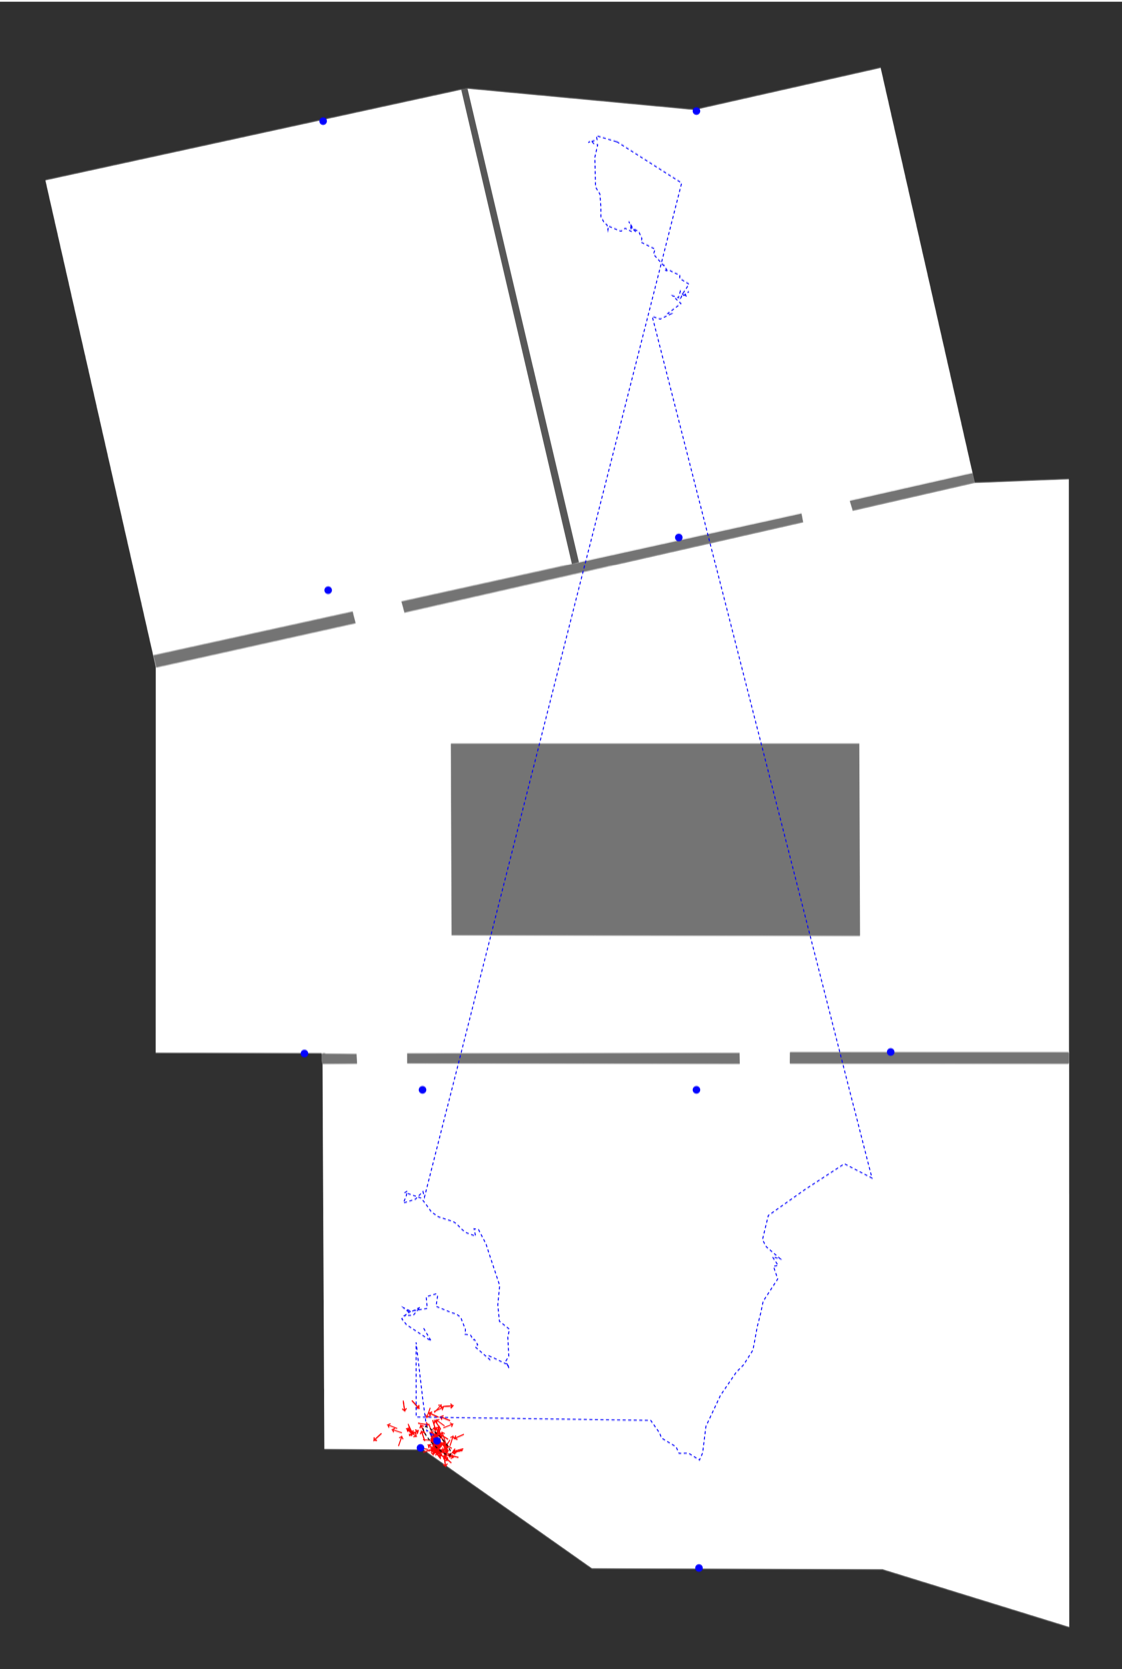
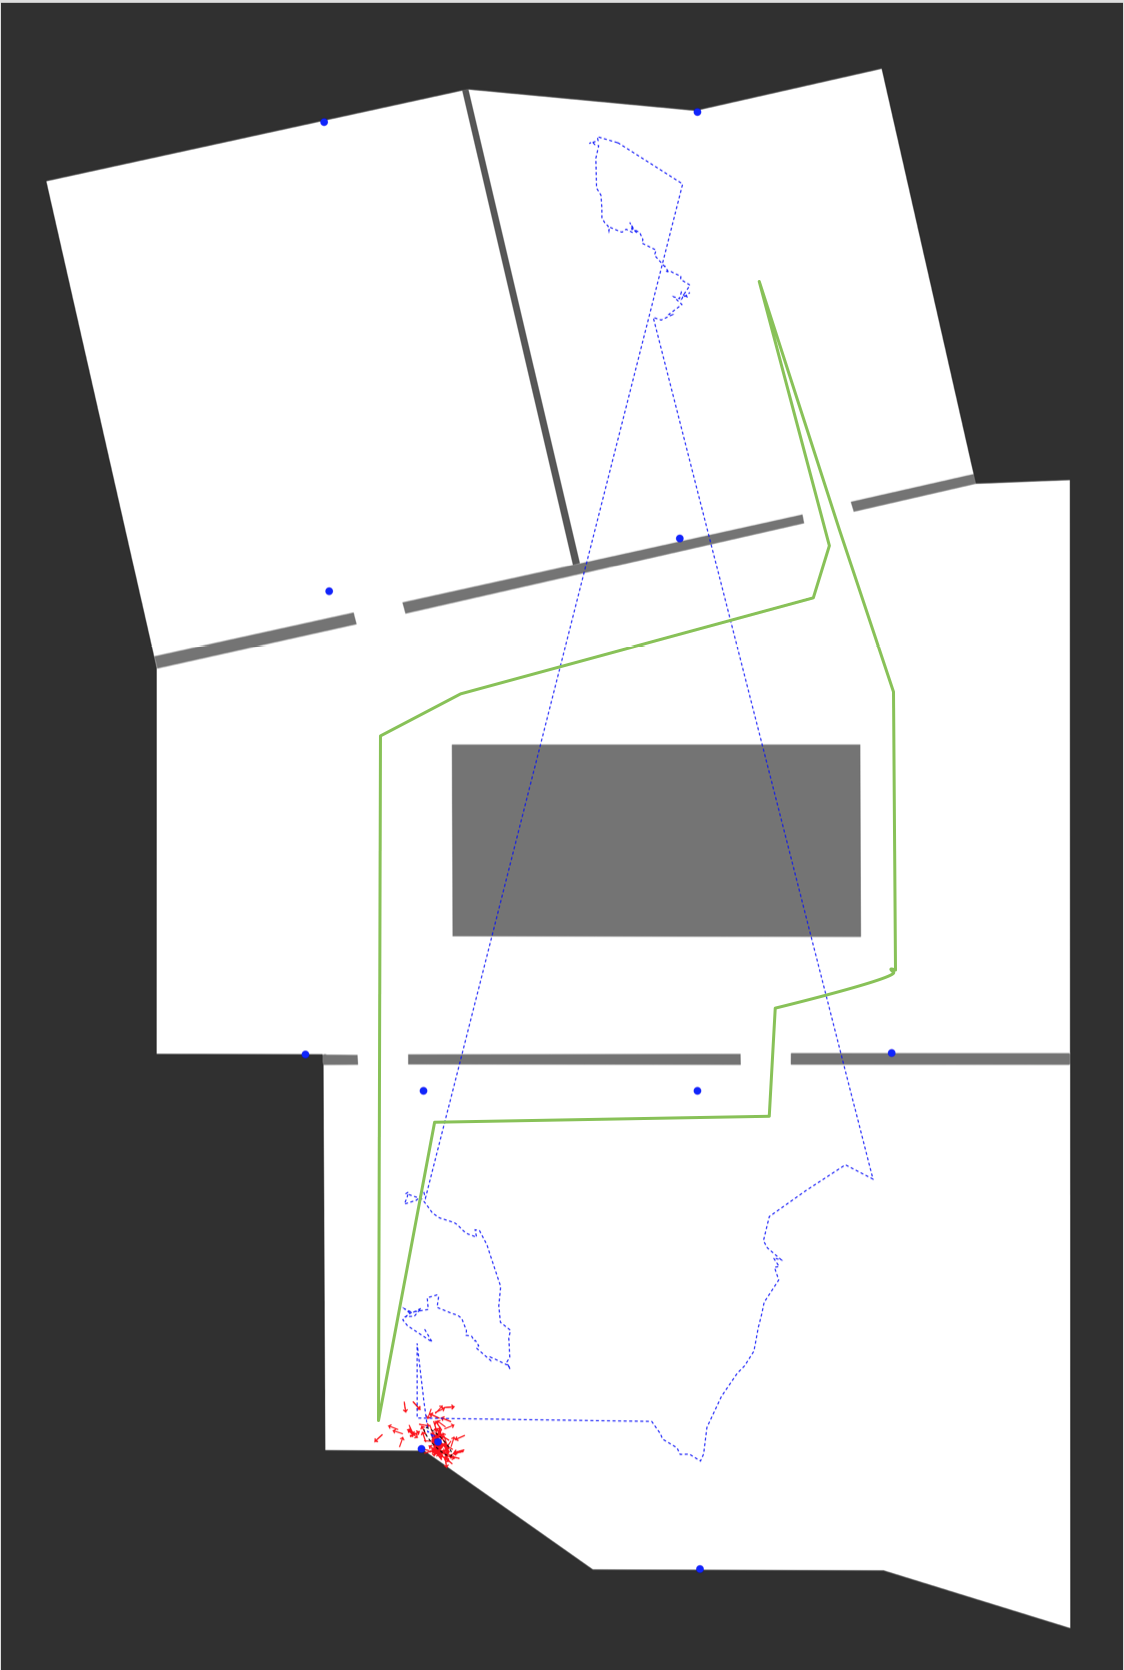
Corrections.

diff --git a/chapters/40_algorithm.tex b/chapters/40_algorithm.tex
@@ -161,7 +161,7 @@ The \acl{PF} is the solution's heart, which is responsible for the position esti
 
 \begin{figure}
 \includegraphics[height=0.7\textwidth]{figures/algo_particle_generation}
-\caption{Depicts the initial posteriori belief, resp.\ the initial particle set. Particles are shown as red arrows, the beacons as blue filled circles. The large black circle is the $1\sigma$-ellipse.}
+\caption{Depicts the initial posterior belief, resp.\ the initial particle set. Particles are shown as red arrows, the beacons as blue filled circles. The large black circle is the $1\sigma$-ellipse.}
 \label{fig:pf_initialDist}
 \end{figure}
 
@@ -179,7 +179,7 @@ The \texttt{integrateMotion} function, shown in listing~\ref{lst:algorithmIntegr
 
 
 \subsection{Filtering}
-The \texttt{filter} function is another helper function, which is responsible for the \emph{importance factoring} and the \emph{resampling}, depicted in listing~\ref{lst:algorithmSimpleFilter}. It gets passed the particle set $\chi_{t-1}$, the measurements $z_t$ and the \texttt{map}. Then it determines the importance factor of each particle, as explained in section~\ref{sec:algo_measurement_model}. Afterwards, the resampling takes place, to transform the old distribution into the new posteriori distribution, as described in section~\ref{sec:fund_pf}. The solution uses \emph{roulette wheel resampling}, which is a common resampling method based on \emph{independent sampling}, proposed by \citet[p. 108--111]{thrun:prob_robo}.
+The \texttt{filter} function is another helper function, which is responsible for the \emph{importance factoring} and the \emph{resampling}, depicted in listing~\ref{lst:algorithmSimpleFilter}. It gets passed the particle set $\chi_{t-1}$, the measurements $z_t$ and the \texttt{map}. Then it determines the importance factor of each particle, as explained in section~\ref{sec:algo_measurement_model}. Afterwards, the resampling takes place, to transform the old distribution into the new posterior distribution, as described in section~\ref{sec:fund_pf}. The solution uses \emph{roulette wheel resampling}, which is a common resampling method based on \emph{independent sampling}, proposed by \citet[p. 108--111]{thrun:prob_robo}.
 
 The shown implementation is the basic implementation which does not solve the kidnapping problem. To better understand the implementation, the \acs{PF}'s complexity was reduced, by first showing a simplified filter function, which neglects the recovery. Later in the chapter, the shown \texttt{filter} function is being enhanced, to explain the implemented recovery feature.
 
@@ -250,35 +250,35 @@ Furthermore, tests showed, that by additionally integrating a small Gaussian dis
 
 
 \subsection{Recovery / Kidnapping Problem}\label{sec:algo_recovery}
-Recovery has two purposes in our application. Firstly, it can happen, that all particles are moving out of bounds, and thus, are being filtered out. Secondly, the particles are on a totally wrong position, which can happen if the user walked to soft, and thus, the pedometer could not recognize the users steps. It can also happen that the orientation does not fit the actual one; for instance, the user's phone points not straight forward during the walk.
+The implemented recovery feature has two purposes. Firstly, it can happen, that all particles are moving out of bounds, and thus, are being filtered out. Secondly, if the particles are on a totally wrong position, which can happen if the user walked to soft, and thus the pedometer could not recognize the user's steps. It can also happen that the orientation does not fit the actual one; for instance, the user's phone points not straight forward during the walk.
 
-To determine both situations, we enhanced our \texttt{filter} function shown in listing~\ref{lst:algorithmSimpleFilter}. The enhanced version is shown in listing~\ref{lst:algorithmFilter}. During the resampling, the new particle set's $\texttt{weightSum} = \sum_{m = 0}^{M-1} w^{[m]}_t$, which is the sum of all drawn particles, during the resampling, is being calculated.
+To determine both situations, the before introduced \texttt{filter} function, shown in listing~\ref{lst:algorithmSimpleFilter}, was enhanced to support recovery. The enhanced version is shown in listing~\ref{lst:algorithmFilter}. During the resampling, the new particle set's \texttt{weightSum}~=~$\sum_{m = 0}^{M-1} w^{[m]}_t$, which is the sum of all drawn particles, during the resampling, is calculated.
 
-If the $\texttt{weightSum} == 0$, $\chi_t$ is empty, thus all particles are moved out of bounds or their location is already occupied, and thus, they are being ignored. Consequently, a new random particle set is being generated. The particles are being distributed as described in section~\ref{sec:algo_initial}, in other words, the position estimation is restarted.
+If the $\texttt{weightSum} == 0$, $\chi_t$ is empty, thus all particles are moved out of bounds or their location is already occupied, and thus are being ignored. Consequently, a new random particle set is being generated. The particles are distributed as described in section~\ref{sec:algo_initial}, i.e\ the position estimation is restarted.
 
-If the $\texttt{weightSum} > 0$, it gets normalized by the particle sets size. Then, it is being stored in an array \texttt{particleSums}, which contains the latest three weightSums (line 24). When the \texttt{filter} function is being called the next time, it first checks if the array already contains three weight sums, and if true, the average of the three weight sums is being calculated (line 8). If the average drops below a certain threshold (1.0), we know, that the posteriori's distribution does not match the user's true position, resp.\ it is totally wrong. To recover from this state we add additional 20\% random particles. The random particles are also being distributed as described in section~\ref{sec:algo_initial}. Due to the fact, that the particles are added before the importance factoring and resampling, the added particles should help to recover from the state, by getting higher importance factors, and thus are being drawn multiple times.
+If the $\texttt{weightSum} > 0$, it gets normalized by the particle sets size. Then, it is stored in the \texttt{particleSums} array, which contains the latest three weightSums (line 24). When the \texttt{filter} function is called the next time, it first checks if the array already contains three weight sums, and if true, the average of the three weight sums is calculated (line 8). If the average drops below a certain threshold (set to 1.0), it is very likely, that the posterior's distribution does not match the user's true position, i.e.\ it is totally wrong. To recover from this state 20\% additional random particles where added to the particle set. The random particles are distributed as described in section~\ref{sec:algo_initial}. Due to the fact, that the particles are being added before the importance factoring and resampling, the added particles help to recover from the state, by getting higher importance factors, and thus they are drawn with a high probability.
 
-We tested different random particle counts; 20\% seems to bring the best result. Adding to less particles does not really help to recover, but adding to much results in a heavily jumping position estimation. The reason for taking the average over the last three weight sums is, that it sometimes can happen, that the weight sum drastically drops during one filter call. This happens for instance, if the measurements to the beacons where heavily influenced, and thus, totally wrong.
+Test of different random particle counts showed, that 20\% seems to bring the best result. Adding to less particles does not really help to recover, but adding to much results in a heavily jumping position estimation. The reason for taking the average over the last three weight sums is, that sometimes the weight sum drastically drops during one filter call. This happens for instance, if the measurements to the beacons where heavily influenced by an obstacle, and thus are totally wrong.
 
-Figure~\ref{fig:algo_recovery} illustrates the recovery. The shown weight sums correspond to the two screenshots. During the experiment, we simulated the kidnapping problem, by walking very smooth from the lower lecture hall through the buildings foyer, by passing the large obstacle at the left side, into the upper right lecture hall. After being their stationary for a few seconds, we returned, by passing the obstacle on the other side. The walk's start and end are at the position, where the particles are being concentrated in figure~\ref{fig:algo_recovery_withRecovery}. During the walk, the iPhone's pedometer was not able to recognize any step. Both experiments, the one with recovery (fig.~\ref{fig:algo_recovery_withRecovery}) and the one without recovery (fig.~\ref{fig:algo_recovery_withoutRecovery}), are being simulated by using the exact same recorded data, as input.
+Figure~\ref{fig:algo_recovery} illustrates the recovery. The shown weight sums correspond to the two screenshots. During the experiment, the kidnapping problem was simulated by walking very smooth, approximately on the green path, from the lower lecture hall through the building's foyer, by passing the large obstacle at the left side, into the upper right lecture hall. After being their stationary for a few seconds, we returned, by passing the obstacle on the other side. During the walk, the iPhone's pedometer was not able to recognize any step. Both experiments, the one with recovery (fig.~\ref{fig:algo_recovery_withRecovery}) and the one without recovery (fig.~\ref{fig:algo_recovery_withoutRecovery}), are simulated by using the exact same recorded data, as input.
 
-We empirically found out, that a threshold of 1.0 fits best. After $\approx$~90s the recovery was being executed the first time. During the long break from 60s~--~90s we walked through the foyer, where no beacons with an estimated distance less than 5m, where ranged. After, receiving measurements again, the average particle weight sum dropped below the threshold, and recovery took place. Thus, the particles jumped from the lower to the upper lecture hall. The same happened at $\approx$~155s on the way back. The third recovery was being executed at $\approx$~184s, which caused a small jump to the end position.
+By testing different thresholds in different scenarios, a threshold of 1.0 seems fit best. In this example recovery was being executed the first time after $\approx$~90s. During the long break from 60s~--~90s the test user walked through the foyer, where no beacons with an estimated distance of less than 5m where ranged. Thus the \texttt{filter} function was not executed. After receiving measurements again, the average particle weight sum dropped below the threshold, and recovery took place. Thus, the particles jumped from the lower to the upper lecture hall. The same happened at $\approx$~155s on the way back. The third recovery is executed at $\approx$~184s, which caused a small jump next to the end position.
 
-With disabled recovery, we can see that the algorithm is not possible to find the true location. After $\approx$~90s the weight sum drops to $\approx$~0, and stays there.
+Without recovery, shown in figure~\ref{fig:algo_recovery_withoutRecovery}, the algorithm is not able to approximate the true location. After $\approx$~90s the weight sum drops to $\approx$~0, and stays there.
 
 
 \input{listings/algorithmFilter}
 
 \begin{figure}
 	\input{figures/algorithmParticleFilter_Recovery}
-	\caption {Depicts the build in recovery, which adds additional 20\% particles if the average weight sum drops below a threshold of 1.0.}
+	\caption {Depicts an example with and without the solution's recovery feature.}
 	\label{fig:algo_recovery}
 \end{figure}
 
 \subsection{Location Estimation}\label{sec:algo_locEstimation}
-To be able to display a concrete location estimation instead of a particle cloud, the \acs{PF}'s posteriori belief, which is a multi-modal distribution, represented by the particle set $\chi_t$, needs to be converted into another distribution. As mentioned in chapter~\ref{chap:fundamentals}, uncertainties are typically modeled as gaussians. Consequently, it is applicable to transform the \acs{PF}'s posteriori into a two-dimensional gaussian $N(\mu, \Sigma)$, where the mean $\mu = (x, y)^T$ represents the concrete location, and the location's uncertainty is being expressed as the covariance matrix $\Sigma = \bigl(\begin{smallmatrix} \sigma_{x}^2&\sigma_{xy}\\ \sigma_{yx}&\sigma_{y}^2 \end{smallmatrix} \bigr)$.
+To be able to display a concrete location estimation instead of a particle cloud, the \acs{PF}'s posterior belief, which is a multi-modal distribution, represented by the particle set $\chi_t$, needs to be converted into another distribution. As mentioned in chapter~\ref{chap:fundamentals}, uncertainties are typically modeled as Gaussians. Consequently, it is applicable to transform the \acs{PF}'s posterior into a two-dimensional gaussian $N(\mu, \Sigma)$, where the mean $\mu = (x, y)^T$ represents the concrete location. The location's uncertainty is expressed as the covariance matrix $\Sigma = \bigl(\begin{smallmatrix} \sigma_{x}^2&\sigma_{xy}\\ \sigma_{yx}&\sigma_{y}^2 \end{smallmatrix} \bigr)$.
 
-The $\mu$, can either be $\chi$'s arithmetic mean or its weighted mean, by using the particle's importance factors as weights. Based on the estimated mean, the covariance $\Sigma$ can be determined. The gaussian's parameters can then be used to visualize the user's location on the map in form of a $1\sigma\text{-ellipse}$. Thus the user's true location is with a probability of $\approx$~39\%, in 2-dimensional space, somewhere in the $1\sigma\text{-ellipse}$. Figure~\ref{fig:algo_sigellipse}, illustrates the transformation of the particle set $\chi$ into a gaussian, shown as $1\sigma\text{-ellipse}$.
+The mean $\mu$, can either be $\chi$'s arithmetic mean or its weighted mean, by using the particle's importance factors as weights. Based on the estimated mean, the covariance $\Sigma$ can be determined. The Gaussian's parameters can then be used to visualize the user's location on the map in form of a $1\sigma\text{-ellipse}$. Thus the user's true location is with a probability of $\approx$~39\%, somewhere in the $1\sigma\text{-ellipse}$. Figure~\ref{fig:algo_sigellipse}, illustrates the transformation of the particle set $\chi$ into a gaussian, shown as $1\sigma\text{-ellipse}$.
 
 \begin{figure}
 	\includegraphics[width=0.7\textwidth]{figures/sigellipse}

diff --git a/listings/algorithmFilter.tex b/listings/algorithmFilter.tex
@@ -3,7 +3,7 @@
   floatplacement=H,
   mathescape,
   captionpos=b,
-  caption={Helper function for the importance factoring and resampling.},
+  caption={Depicts the solution's enhanced filter function including recovery},
   label=lst:algorithmFilter]
 // instance variable
 weightSums // array that stores the last 3 weight sums
